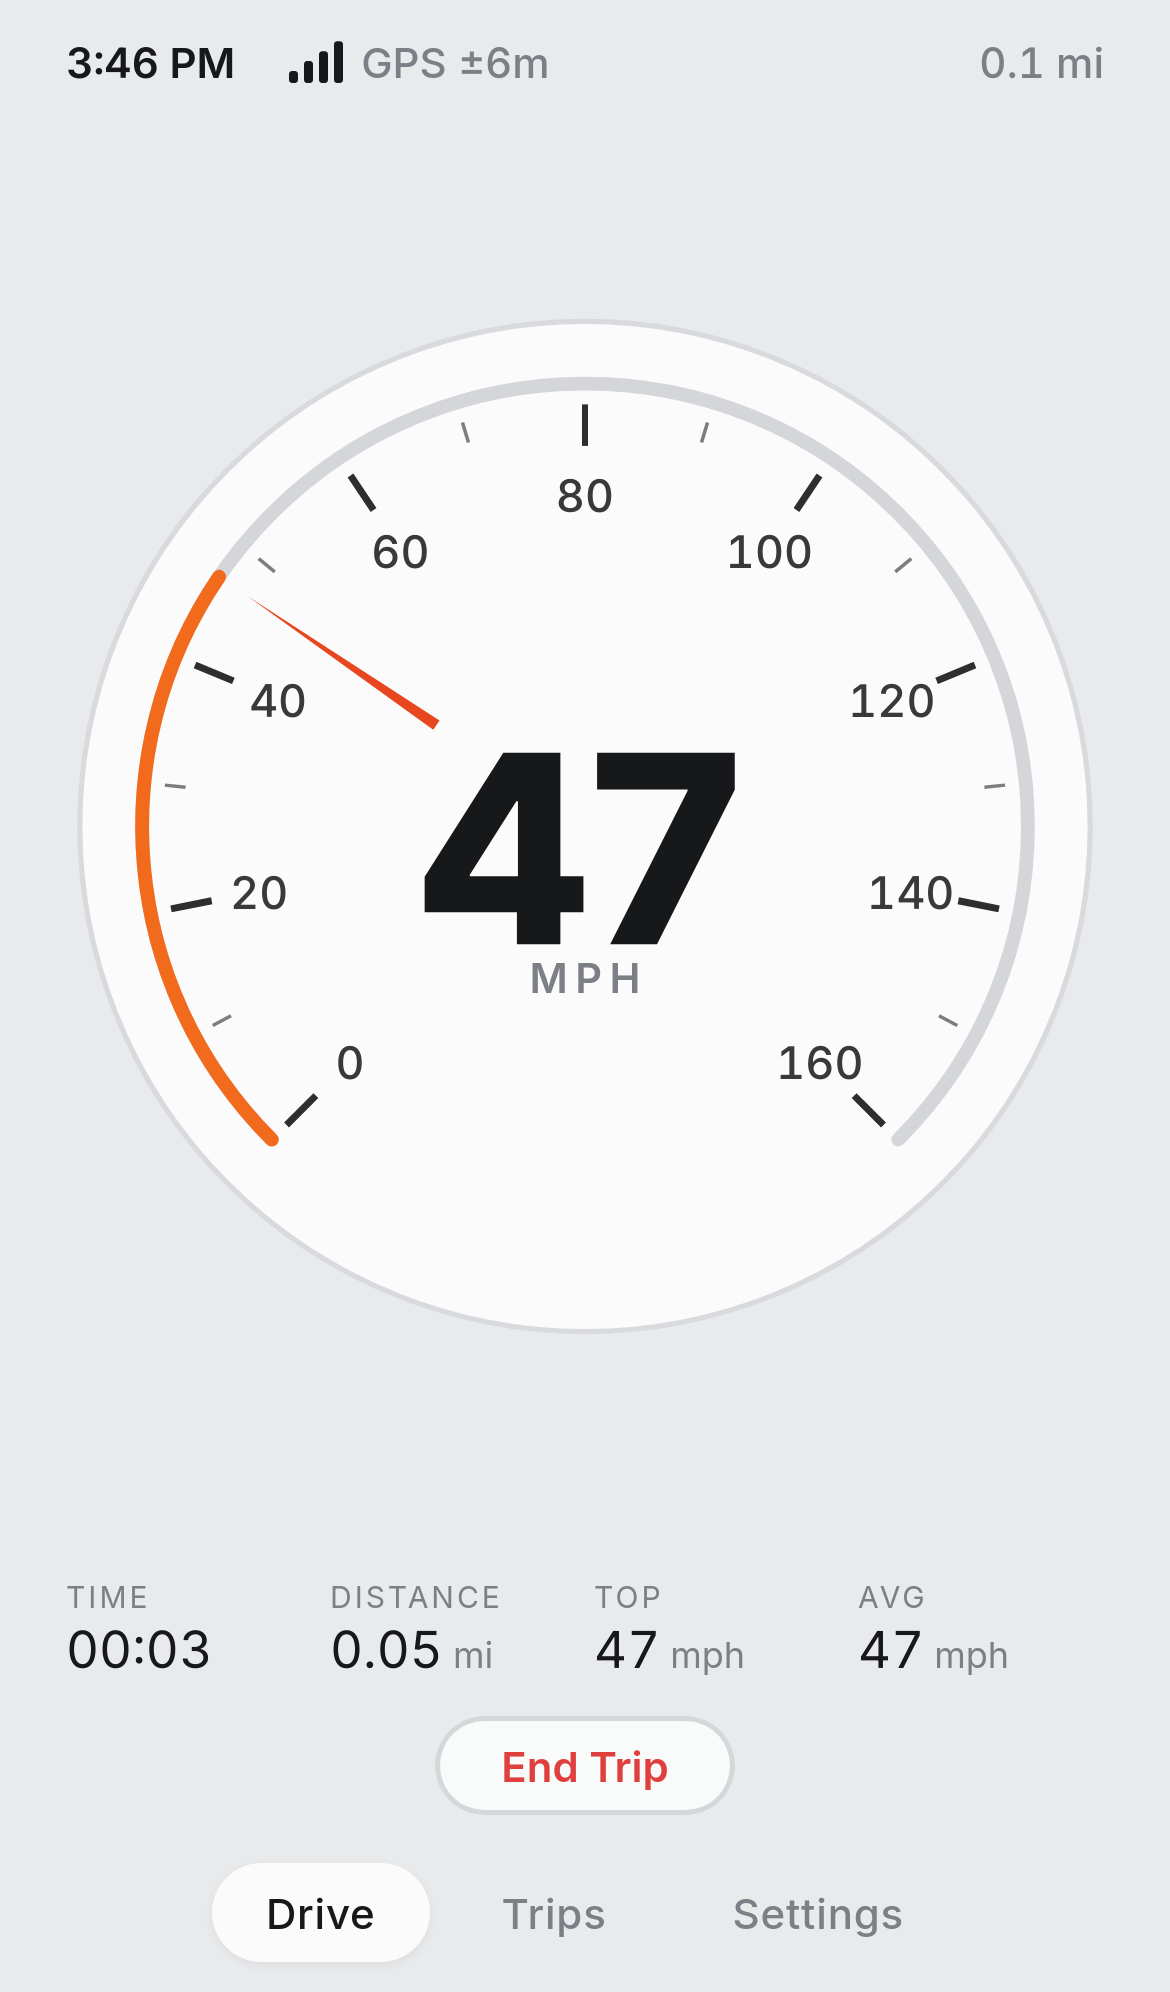
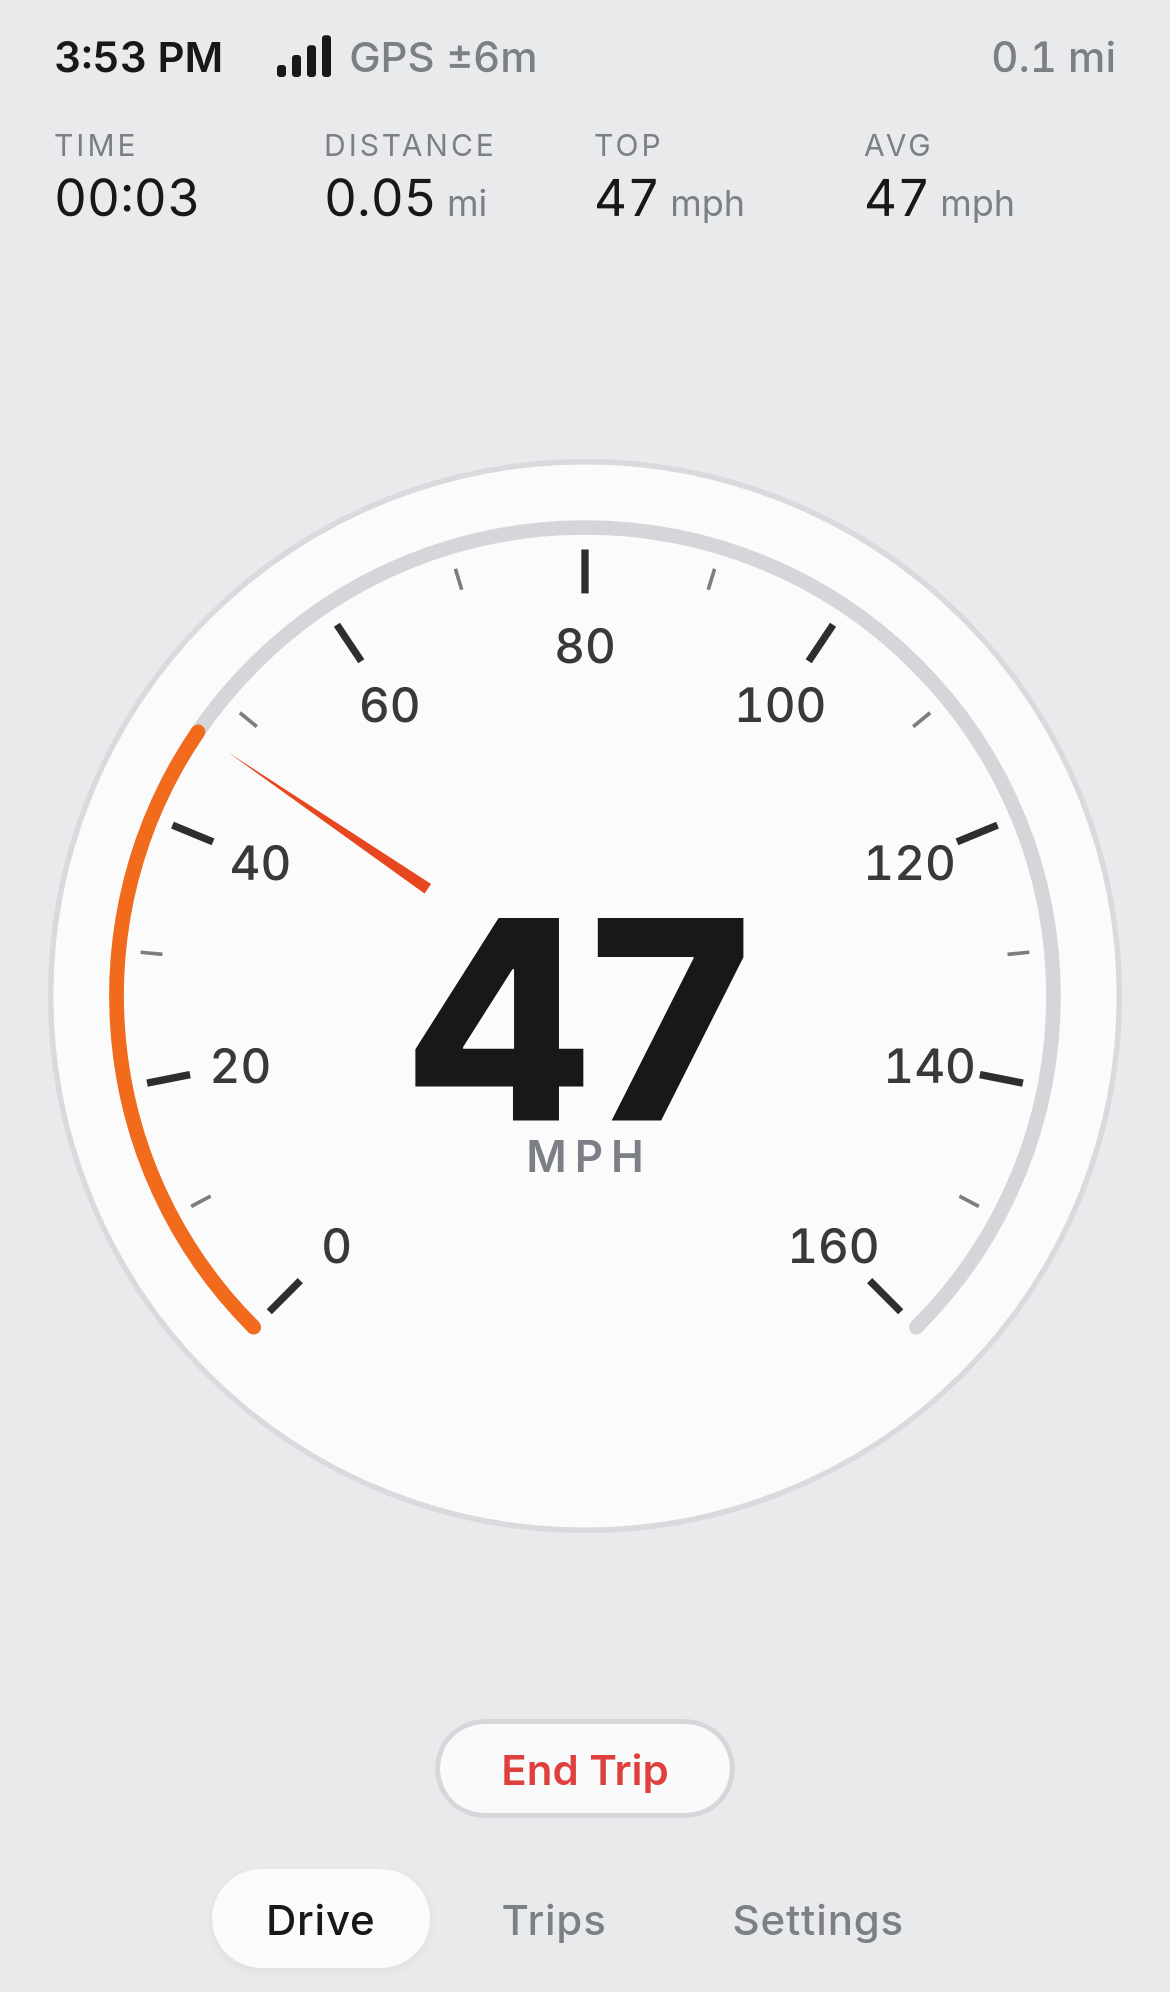
Drive: gauge pinned to exact viewport centre; symmetric stats/controls placement; centring checks; v5 SW cache

diff --git a/src/index.css b/src/index.css
@@ -18,7 +18,6 @@ button { font: inherit; color: inherit; cursor: pointer; -webkit-tap-highlight-c
 html.no-scroll, html.no-scroll body { position: fixed; inset: 0; overflow: hidden; overscroll-behavior: none; height: 100%; width: 100%; }
 .app.r-drive { position: fixed; inset: 0; height: 100dvh; width: 100vw; overflow: hidden; overscroll-behavior: none; touch-action: none; }
 .app.r-drive .drive, .app.r-drive .gauge { overflow: hidden; touch-action: none; }
-.app.r-drive .gauge svg { max-width: min(100%, 100dvh); }
 
 /* nav */
 .nav { display: flex; justify-content: center; gap: 6px; padding: 8px 12px 10px; }
@@ -84,6 +83,41 @@ html.no-scroll, html.no-scroll body { position: fixed; inset: 0; overflow: hidde
   .btn.trip { font-size: 16px; padding: 10px 28px; }
   .nav a { font-size: 17px; padding: 12px 22px; }
   .drive { padding: 32px 48px; }
+}
+
+/* ---- Drive: gauge pinned to exact viewport centre; everything else placed symmetrically around it ---- */
+.app.r-drive { padding: 0; display: block;
+  --st: env(safe-area-inset-top); --sb: env(safe-area-inset-bottom);
+  --sa: max(env(safe-area-inset-left), env(safe-area-inset-right)); /* symmetric side inset */
+  --rv: calc(118px + max(var(--st), var(--sb))); /* portrait: reserved band top & bottom (equal) */
+  --g: min(calc(100vw - 2 * var(--sa) - 24px), calc(100dvh - 2 * var(--rv))); }
+.app.r-drive .drive { position: absolute; inset: 0; max-width: none; margin: 0; padding: 0; display: block; }
+.app.r-drive .gauge { position: absolute; left: 50%; top: 50%; width: var(--g); height: var(--g); transform: translate(-50%, -50%); flex: none; }
+.app.r-drive .status { position: absolute; top: calc(var(--st) + 10px); left: calc(var(--sa) + 18px); right: calc(var(--sa) + 18px); }
+.app.r-drive .left { position: absolute; top: calc(var(--st) + 42px); left: calc(var(--sa) + 18px); right: calc(var(--sa) + 18px); display: flex; flex-direction: column; gap: 6px; }
+.app.r-drive .right { position: absolute; bottom: calc(var(--sb) + 58px); left: 0; right: 0; display: flex; justify-content: center; }
+.app.r-drive .nav { position: absolute; bottom: calc(var(--sb) + 4px); left: 0; right: 0; padding: 4px; }
+.app.r-drive .note.err { position: absolute; top: 100%; left: 0; right: 0; margin-top: 4px; z-index: 2; box-shadow: 0 6px 20px #0003; }
+
+@media (orientation: landscape) and (min-width: 520px) {
+  .app.r-drive { --side: clamp(128px, 19vw, 320px);
+    --g: min(calc(100dvh - 20px - 2 * max(var(--st), var(--sb))), calc(100vw - 2 * (var(--side) + var(--sa)) - 24px)); }
+  .app.r-drive .left, .app.r-drive .right { top: 0; bottom: 0; width: var(--side); right: auto; flex-direction: column; justify-content: center; align-items: flex-start; }
+  .app.r-drive .left { left: calc(var(--sa) + 12px); }
+  .app.r-drive .right { left: auto; right: calc(var(--sa) + 12px); align-items: flex-end; }
+  .app.r-drive .stats { grid-template-columns: 1fr; gap: 10px; }
+  .app.r-drive .status { left: auto; right: calc(var(--sa) + 12px); width: var(--side); flex-direction: column; align-items: flex-end; gap: 3px; font-size: 12px; }
+  .app.r-drive .status .tripd { margin-left: 0; }
+  .app.r-drive .nav { left: auto; right: calc(var(--sa) + 8px); bottom: calc(var(--sb) + 8px); width: var(--side); flex-direction: column; align-items: flex-end; gap: 2px; padding: 0; }
+  .app.r-drive .nav a { padding: 4px 12px; font-size: 12px; }
+  .app.r-drive .note.err { position: static; box-shadow: none; font-size: 12px; }
+}
+@media (min-width: 1200px) and (min-height: 700px) {
+  .app.r-drive { --g: min(84dvh, calc(100vw - 2 * (var(--side) + var(--sa)) - 24px)); }
+  .app.r-drive .left { left: 48px; } .app.r-drive .right, .app.r-drive .status { right: 48px; } .app.r-drive .nav { right: 44px; }
+  .app.r-drive .status { font-size: 16px; top: 24px; }
+  .app.r-drive .nav { bottom: 24px; } .app.r-drive .nav a { font-size: 16px; padding: 8px 18px; }
+  .app.r-drive .stats { gap: 22px; }
 }
 
 /* pages */

diff --git a/src/App.tsx b/src/App.tsx
@@ -120,15 +120,13 @@ function Drive(p: { settings: Settings; status: GpsStatus; errMsg?: string; spee
   const waiting = !p.hasFix && (p.status === 'waiting' || p.status === 'ok')
   return (
     <main className={`drive ${p.over ? 'over' : ''}`}>
-      <section className="hero">
-        <div className="status">
-          <span className="clock">{new Date(now).toLocaleTimeString([], { hour: 'numeric', minute: '2-digit' })}</span>
-          <Signal status={p.status} accuracy={p.accuracy} />
-          <span className="tripd">{t ? `${distUnit(t.distance, u).toFixed(1)} ${du}` : '—'}</span>
-        </div>
-        <Gauge value={p.shown} unit={u} waiting={waiting} />
-      </section>
-      <section className="side">
+      <div className="status">
+        <span className="clock">{new Date(now).toLocaleTimeString([], { hour: 'numeric', minute: '2-digit' })}</span>
+        <Signal status={p.status} accuracy={p.accuracy} />
+        <span className="tripd">{t ? `${distUnit(t.distance, u).toFixed(1)} ${du}` : '—'}</span>
+      </div>
+      <Gauge value={p.shown} unit={u} waiting={waiting} />
+      <section className="left">
         {waiting && <div className="note pulse">Waiting for GPS…</div>}
         {p.status === 'denied' && (
           <div className="note err" data-testid="denied">
@@ -145,6 +143,8 @@ function Drive(p: { settings: Settings; status: GpsStatus; errMsg?: string; spee
           <Stat k="Top" v={t ? Math.round(toUnit(t.top, u)).toString() : '0'} s={u === 'mph' ? 'mph' : 'km/h'} />
           <Stat k="Avg" v={t ? Math.round(toUnit(avgMoving(t), u)).toString() : '0'} s={u === 'mph' ? 'mph' : 'km/h'} />
         </div>
+      </section>
+      <section className="right">
         <button className={`btn trip ${t ? 'stop' : ''}`} onClick={p.toggleTrip} data-testid="trip-btn">{t ? 'End Trip' : 'Start Trip'}</button>
       </section>
     </main>

diff --git a/src/sw-template.js b/src/sw-template.js
@@ -1,6 +1,6 @@
 /* Lanecast service worker — generated at build time (see vite.config.ts). */
 const VERSION = '__VERSION__'
-const CACHE = `lanecast-v4-${VERSION}`
+const CACHE = `lanecast-v5-${VERSION}`
 const PRECACHE = __PRECACHE__
 
 self.addEventListener('install', (event) => {
